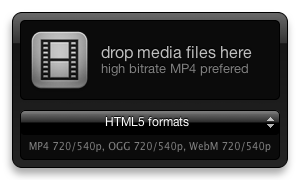
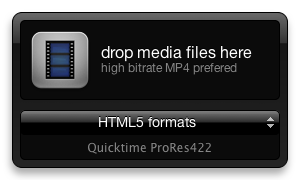
Fixed presets location access, minor feedback changes

diff --git a/Alchemist.dcproj/project/widget.wdgt/main.js b/Alchemist.dcproj/project/widget.wdgt/main.js
@@ -278,10 +278,10 @@ function updateFeedback(event) {
 			break;
 		case 4:	// HTML5 formats
 //			document.getElementById("feedback").innerHTML = "MP4 720/540p, OGG 720/540p, WebM 720/540p";
-			document.getElementById("feedback").innerHTML = "MP4, OGG, WebM, 720p/540p";
+			document.getElementById("feedback").innerHTML = "MP4, OGG, WebM 720p/540p";
 			break;
 		case 5:	// Desktop formats
-			document.getElementById("feedback").innerHTML = "MP4 720p, WMV 720p";
+			document.getElementById("feedback").innerHTML = "MP4, WMV 720p";
 			break;
 		case 6:	// Mobile devices
 			document.getElementById("feedback").innerHTML = "MP4 480p/360p";
@@ -446,8 +446,8 @@ try {
 
 	for (var i=0; i<type.length; i++) {
 		if (type[i][0]=="qt_tools") {
-			alert(prefLocation+"qt_export --loadsettings="+prefLocation+type[i][1]+" "+name[0]+name[1]+name[2]+" "+name[0]+name[1]+type[i][2]);
-			widget.system(prefLocation+"qt_export --loadsettings="+prefLocation+type[i][1]+" "+name[0]+name[1]+name[2]+" "+name[0]+name[1]+type[i][2], (end)?endHandler:endHandlerFake);
+			alert(prefLocation+"qt_export --loadsettings="+type[i][1]+" "+name[0]+name[1]+name[2]+" "+name[0]+name[1]+type[i][2]);
+			widget.system(prefLocation+"qt_export --loadsettings="+type[i][1]+" "+name[0]+name[1]+name[2]+" "+name[0]+name[1]+type[i][2], (end)?endHandler:endHandlerFake);
 		} else if (type[i][0]=="ffmpeg2theora") {
 			alert(prefLocation3+"ffmpeg2theora "+name[0]+name[1]+name[2]+" "+type[i][1]+" "+name[0]+name[1]+type[i][2]);
 			widget.system(prefLocation3+"ffmpeg2theora "+name[0]+name[1]+name[2]+" "+type[i][1]+" "+name[0]+name[1]+type[i][2], (end)?endHandler:endHandlerFake);

diff --git a/Alchemist.wdgt/main.js b/Alchemist.wdgt/main.js
@@ -278,10 +278,10 @@ function updateFeedback(event) {
 			break;
 		case 4:	// HTML5 formats
 //			document.getElementById("feedback").innerHTML = "MP4 720/540p, OGG 720/540p, WebM 720/540p";
-			document.getElementById("feedback").innerHTML = "MP4, OGG, WebM, 720p/540p";
+			document.getElementById("feedback").innerHTML = "MP4, OGG, WebM 720p/540p";
 			break;
 		case 5:	// Desktop formats
-			document.getElementById("feedback").innerHTML = "MP4 720p, WMV 720p";
+			document.getElementById("feedback").innerHTML = "MP4, WMV 720p";
 			break;
 		case 6:	// Mobile devices
 			document.getElementById("feedback").innerHTML = "MP4 480p/360p";
@@ -446,8 +446,8 @@ try {
 
 	for (var i=0; i<type.length; i++) {
 		if (type[i][0]=="qt_tools") {
-			alert(prefLocation+"qt_export --loadsettings="+prefLocation+type[i][1]+" "+name[0]+name[1]+name[2]+" "+name[0]+name[1]+type[i][2]);
-			widget.system(prefLocation+"qt_export --loadsettings="+prefLocation+type[i][1]+" "+name[0]+name[1]+name[2]+" "+name[0]+name[1]+type[i][2], (end)?endHandler:endHandlerFake);
+			alert(prefLocation+"qt_export --loadsettings="+type[i][1]+" "+name[0]+name[1]+name[2]+" "+name[0]+name[1]+type[i][2]);
+			widget.system(prefLocation+"qt_export --loadsettings="+type[i][1]+" "+name[0]+name[1]+name[2]+" "+name[0]+name[1]+type[i][2], (end)?endHandler:endHandlerFake);
 		} else if (type[i][0]=="ffmpeg2theora") {
 			alert(prefLocation3+"ffmpeg2theora "+name[0]+name[1]+name[2]+" "+type[i][1]+" "+name[0]+name[1]+type[i][2]);
 			widget.system(prefLocation3+"ffmpeg2theora "+name[0]+name[1]+name[2]+" "+type[i][1]+" "+name[0]+name[1]+type[i][2], (end)?endHandler:endHandlerFake);
